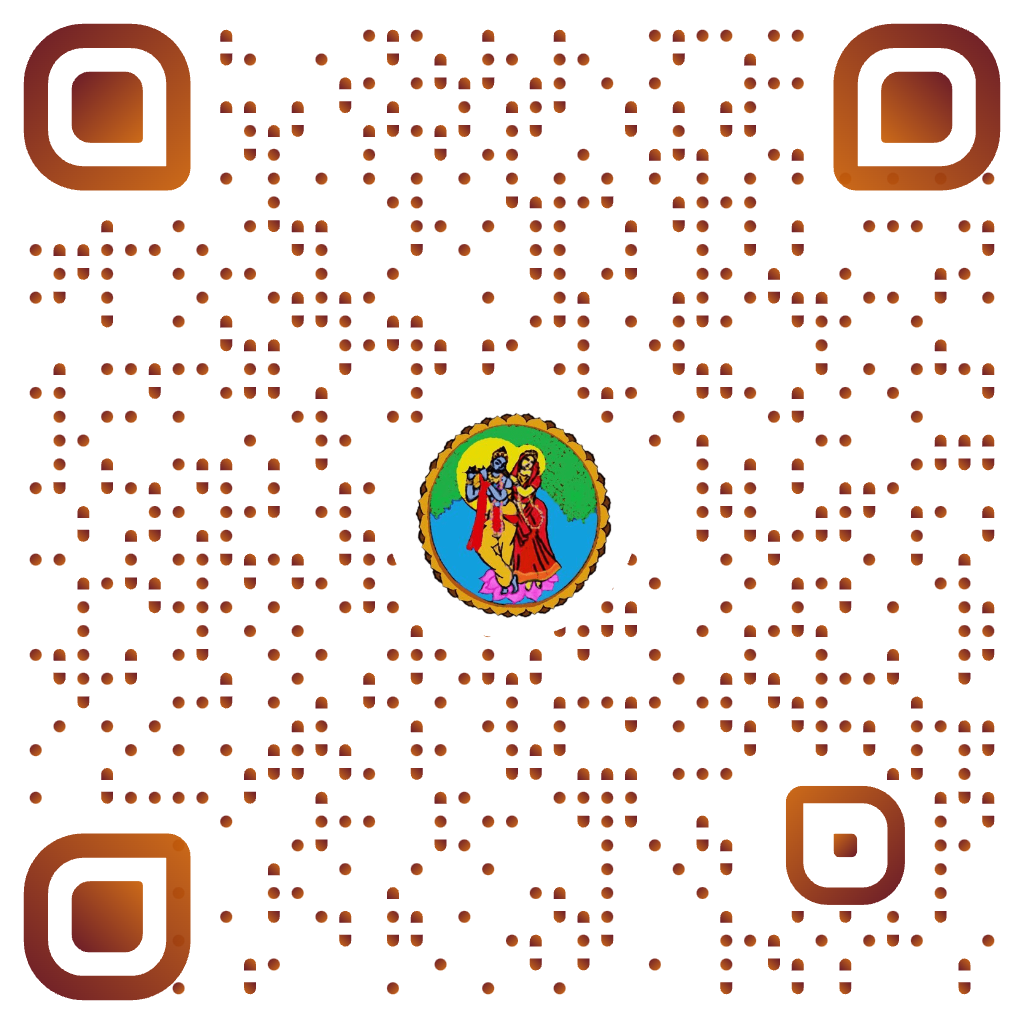
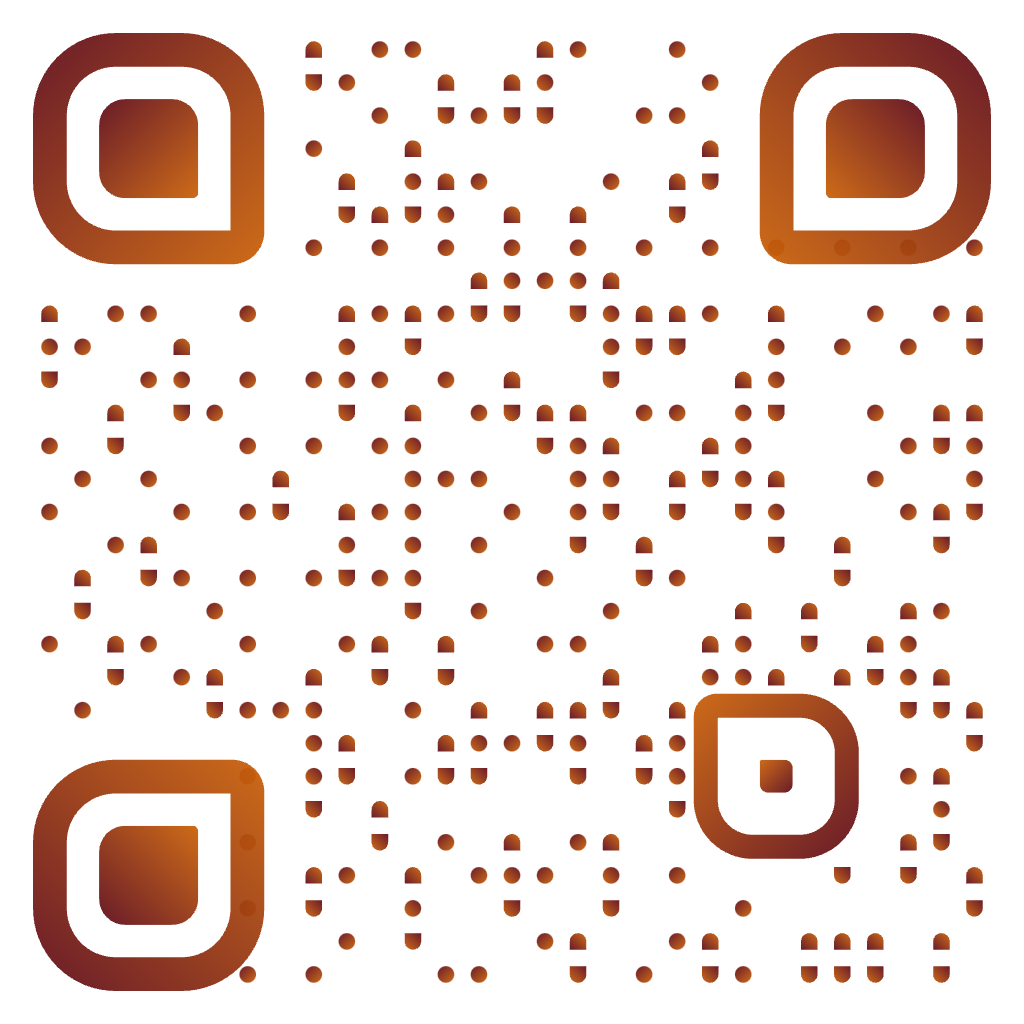
qr updated

diff --git a/src/app/counselling/page.jsx b/src/app/counselling/page.jsx
@@ -98,13 +98,13 @@ const page = () => {
                   keep this online, active and free forever!
                 </Text>
                 <Text my={4} fontWeight={"semibold"}>
-                  Our UPI ID: iskconinc@oksbi
+                  Our UPI ID: 7357181403@ibl
                 </Text>
                 <Hide below="md">
                   <Image src="/qr.png" maxW={"xs"} />
                 </Hide>
                 <Hide above="md">
-                  <Link target="_blank" href={"upi://pay?pa=iskconinc@oksbi"}>
+                  <Link target="_blank" href={"upi://pay?pa=7357181403@ibl"}>
                     <Image src="/qr.png" maxW={"xs"} />
                   </Link>
                   <Text fontSize={"xs"} textAlign={"center"}>
